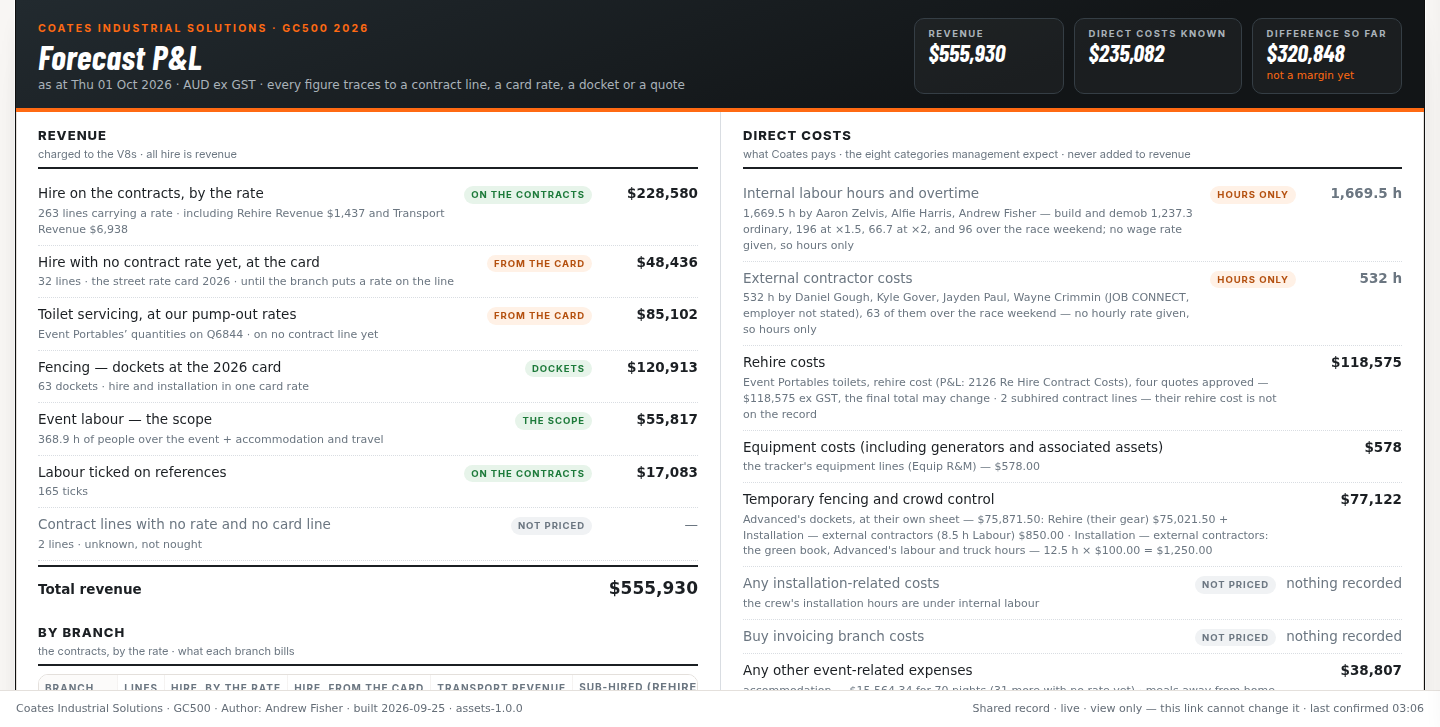
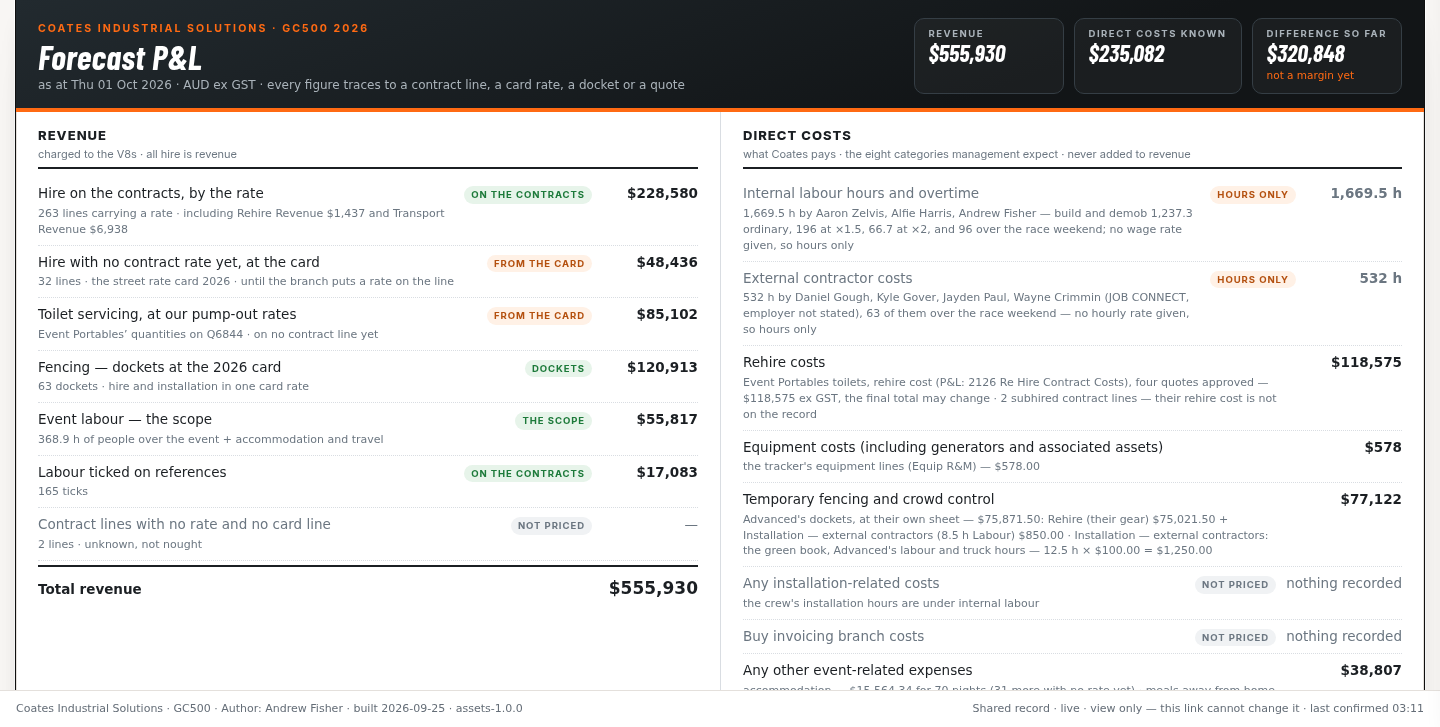
v7.52: every branch row shows its sub-hire (lines, Rehire Revenue, supplier, or NONE); branch table full width; sub-hired locations by supplier. Ready to upload
Claude-Session: https://claude.ai/code/session_01BQwk5iUoysfHRmoPUtnkBd

diff --git a/03_GC500_Delivery_Control/v7.52_the_pl_as_management_read_it_DRAFT/pl752_src.js b/03_GC500_Delivery_Control/v7.52_the_pl_as_management_read_it_DRAFT/pl752_src.js
@@ -63,13 +63,6 @@ function pl752Card(){
  ${c.other_lines ? line('Other charge lines', pl(c.other_lines, 'line'), m0(c.other), CONTRACT) : ''}
  ${noRate ? line('Contract lines with no rate and no card line', `${pl(noRate, 'line')} · unknown, not nought`, '<span class="pl-todo">—</span>', NONE, 'faint') : ''}
  ${line('Total revenue', '', m0(c.total), '', 'total')}
- <h4 class="pl-h4b">By branch <small>the contracts, by the rate · what each branch bills</small></h4>
- <div class="tblwrap"><table class="pl-tbl"><thead><tr><th>Branch</th><th class="num">Lines</th><th class="num">Hire, by the rate</th><th class="num">Hire, from the card</th><th class="num">Transport Revenue</th><th>Sub-hired <span class="w">(Rehire Revenue)</span></th><th class="num">No rate</th><th class="num">Total</th></tr></thead><tbody>
- ${B.map(b => `<tr><td><b>${esc(b.code)}</b>${b.decided ? `<br><span class="w">${pl(b.decided, 'line')} settled: no separate charge</span>` : ''}</td><td class="num">${esc(fmtNum(b.lines))}</td><td class="num">${b.contract ? esc(money0(b.contract)) : '—'}</td><td class="num">${b.card ? esc(money0(b.card)) : '—'}</td><td class="num">${b.transport ? esc(money0(b.transport)) : '—'}</td><td class="pl-sub">${b.subLines ? `<b>${esc(fmtNum(b.subLines))} line${b.subLines === 1 ? '' : 's'}</b> · ${esc(money0(b.rehire))}${b.suppliers.length ? `<br><span class="w">from ${esc(b.suppliers.join(', '))} · rehire cost not on the record</span>` : ''}` : '<span class="pl-none">none sub-hired</span>'}</td><td class="num">${b.none ? `<span class="pl-todo">${esc(fmtNum(b.none))}</span>` : '—'}</td><td class="num"><b>${esc(money0(b.total))}</b></td></tr>`).join('')}
- <tr class="tot"><td>The contracts</td><td class="num">${esc(fmtNum(B.reduce((s, b) => s + b.lines, 0)))}</td><td class="num">${esc(money0(B.reduce((s, b) => s + b.contract, 0)))}</td><td class="num">${esc(money0(cardTotal))}</td><td class="num">${esc(money0(B.reduce((s, b) => s + b.transport, 0)))}</td><td class="pl-sub"><b>${esc(fmtNum(B.reduce((s, b) => s + b.subLines, 0)))} lines</b> · ${esc(money0(B.reduce((s, b) => s + b.rehire, 0)))}</td><td class="num">${noRate ? esc(fmtNum(noRate)) : '—'}</td><td class="num"><b>${esc(money0(B.reduce((s, b) => s + b.total, 0)))}</b></td></tr>
- </tbody></table></div>
- ${(() => { const L = pl752SubLocations(); return `<div class="pl-subloc"><b>Sub-hired on the record, by supplier.</b> ${L.length ? L.map(x => `<span class="pl-subco"><b>${esc(x.co)}</b> — ${esc(x.keys.join(', '))} (${x.keys.length} location${x.keys.length === 1 ? '' : 's'})</span>`).join(' · ') : 'no sub-hired location recorded on the page'}. These are locations, not contract lines: their hire is charged to the V8s on the branch's contracts at our rates, and the supplier's rehire cost sits under Rehire costs on the right (Event Portables: ${esc(money0(k.rehire || 0))}, approved). A branch's SUB lines above are the items the rental system itself books as sub-hired.</div>`; })()}
- <p class="pl-note">The branch total is the contracts line above, to the dollar: hire by the rate, hire from the card, plus the Transport Revenue and Rehire Revenue charge lines on the same contracts. Fencing, toilet servicing and event labour are charged off dockets, a quote and the scope, not contract lines, so they sit outside the branch table.</p>
  </div>
  <div class="pl-col">
  <h4>Direct costs <small>what Coates pays · the eight categories management expect · never added to revenue</small></h4>
@@ -80,6 +73,15 @@ function pl752Card(){
  <ul class="pl-missing">${missing.map(x => `<li>${esc(x)}</li>`).join('')}${(M.caveats || []).map(x => `<li class="prov">Provisional: ${esc(x)}</li>`).join('')}</ul>
  <p class="pl-note">Charged windows: forklifts, VMS and water barriers from when they go in; everything else over the event (23–25 Oct). Labour is charged per piece of equipment; the only hourly labour charged is over the event. A rate typed on Costs → From the Street Rate Card 2026 replaces a card estimate and shows here at once.</p>
  </div>
+ </div>
+ <div class="pl-wide">
+ <h4>By branch <small>the contracts, by the rate · what each branch bills</small></h4>
+ <div class="tblwrap"><table class="pl-tbl"><thead><tr><th>Branch</th><th class="num">Lines</th><th class="num" title="hire lines carrying a rate the branch put on the contract">Hire · by the rate</th><th class="num" title="hire lines with no contract rate yet, at the street rate card 2026">Hire · from the card</th><th class="num" title="Transport Revenue: the delivery and pickup charge lines">Transport</th><th title="the SUB lines the rental system books as sub-hired, and their Rehire Revenue">Sub-hired</th><th class="num" title="lines with no rate and no card line: unknown, not nought">No rate</th><th class="num">Total</th></tr></thead><tbody>
+ ${B.map(b => `<tr><td class="pl-br"><b>${esc(b.code)}</b>${b.decided ? ` <span class="w" title="${esc(pl(b.decided, 'line') + ' settled by the project manager, 1 Oct 2026: no separate customer hire charge (waste tanks included in toilet-block hire; contract 9968929 for Coates\u2019 own use)')}">· ${esc(fmtNum(b.decided))} settled</span>` : ''}</td><td class="num">${esc(fmtNum(b.lines))}</td><td class="num">${b.contract ? esc(money0(b.contract)) : '—'}</td><td class="num">${b.card ? esc(money0(b.card)) : '—'}</td><td class="num">${b.transport ? esc(money0(b.transport)) : '—'}</td><td class="pl-sub" title="${b.subLines ? esc(pl(b.subLines, 'SUB line') + ' from ' + (b.suppliers.join(', ') || 'a supplier not named') + ' · Rehire Revenue ' + money0(b.rehire) + ' · the rehire cost is not on the record') : 'no line on this branch\u2019s contracts is booked as sub-hired'}">${b.subLines ? `<b>${esc(fmtNum(b.subLines))} line${b.subLines === 1 ? '' : 's'}</b> · ${esc(money0(b.rehire))}<br><span class="w">${esc(b.suppliers.join(', ') || 'supplier not named')} · cost not on record</span>` : '<span class="pl-none">none</span>'}</td><td class="num">${b.none ? `<span class="pl-todo">${esc(fmtNum(b.none))}</span>` : '—'}</td><td class="num"><b>${esc(money0(b.total))}</b></td></tr>`).join('')}
+ <tr class="tot"><td>The contracts</td><td class="num">${esc(fmtNum(B.reduce((s, b) => s + b.lines, 0)))}</td><td class="num">${esc(money0(B.reduce((s, b) => s + b.contract, 0)))}</td><td class="num">${esc(money0(cardTotal))}</td><td class="num">${esc(money0(B.reduce((s, b) => s + b.transport, 0)))}</td><td class="pl-sub"><b>${esc(fmtNum(B.reduce((s, b) => s + b.subLines, 0)))} lines</b> · ${esc(money0(B.reduce((s, b) => s + b.rehire, 0)))}</td><td class="num">${noRate ? esc(fmtNum(noRate)) : '—'}</td><td class="num"><b>${esc(money0(B.reduce((s, b) => s + b.total, 0)))}</b></td></tr>
+ </tbody></table></div>
+ ${(() => { const L = pl752SubLocations(); return `<div class="pl-subloc"><b>Sub-hired on the record, by supplier.</b> ${L.length ? L.map(x => `<span class="pl-subco"><b>${esc(x.co)}</b> — ${esc(x.keys.join(', '))} (${x.keys.length} location${x.keys.length === 1 ? '' : 's'})</span>`).join(' · ') : 'no sub-hired location recorded on the page'}. These are locations, not contract lines: their hire is charged to the V8s on the branch's contracts at our rates, and the supplier's rehire cost sits under Rehire costs in Direct costs above (Event Portables: ${esc(money0(k.rehire || 0))}, approved). A branch's SUB lines above are the items the rental system itself books as sub-hired.</div>`; })()}
+ <p class="pl-note">The branch total is the contracts line above, to the dollar: hire by the rate, hire from the card, plus the Transport Revenue and Rehire Revenue charge lines on the same contracts. Fencing, toilet servicing and event labour are charged off dockets, a quote and the scope, not contract lines, so they sit outside the branch table.</p>
  </div>
  <footer class="pl-foot"><span>Author: ${esc((DATA.brand || {}).author || 'Andrew Fisher')} · Events Project Manager</span><span>The working behind every figure is under <b>Are we making money?</b> below · Print and Email the summary are above</span></footer>
  </section>`;

diff --git a/03_GC500_Delivery_Control/v7.52_the_pl_as_management_read_it_DRAFT/pl752.css b/03_GC500_Delivery_Control/v7.52_the_pl_as_management_read_it_DRAFT/pl752.css
@@ -28,20 +28,24 @@
 .pl752 .pl-todo{color:var(--pl-mute);font-weight:500}
 .pl752 .pl-tag{display:inline-block;font:700 9.5px/1 'Inter',var(--sans,system-ui,sans-serif);letter-spacing:.1em;text-transform:uppercase;padding:4px 7px;border-radius:999px;white-space:nowrap;font-style:normal}
 .pl752 .pl-tag.ok{background:#e7f4ea;color:#1d7a3a}.pl752 .pl-tag.est{background:#fff1e6;color:#b4500f}.pl752 .pl-tag.none{background:#f0f2f4;color:#6b7681}
-.pl752 .pl-tbl{width:100%;min-width:0;border-collapse:collapse;font-size:12.5px}
-.pl752 .pl-tbl th{font:700 10px/1.2 'Inter',var(--sans,system-ui,sans-serif);letter-spacing:.1em;text-transform:uppercase;color:var(--pl-mute);text-align:left;padding:6px 6px;border-bottom:1px solid var(--pl-ink)}
-.pl752 .pl-tbl td{padding:7px 6px;border-bottom:1px dotted var(--pl-rule);vertical-align:top}
+.pl752 .pl-tbl{width:100%;min-width:0;border-collapse:collapse;font-size:11.5px}
+.pl752 .pl-tbl th{font:700 9px/1.25 'Inter',var(--sans,system-ui,sans-serif);letter-spacing:.06em;text-transform:uppercase;color:var(--pl-mute);text-align:left;padding:6px 4px;border-bottom:1px solid var(--pl-ink);vertical-align:bottom}
+.pl752 .pl-tbl td{padding:6px 4px;border-bottom:1px dotted var(--pl-rule);vertical-align:top}.pl752 .pl-tbl td.pl-br{white-space:nowrap}.pl752 .pl-tbl td.pl-br .w{font-size:10px}
 .pl752 .pl-tbl .num{text-align:right;white-space:nowrap}
 .pl752 .pl-tbl tr.tot td{border-top:2px solid var(--pl-ink);border-bottom:0;font-weight:700}
 .pl752 .pl-tbl .w{font-size:11px;color:var(--pl-mute)}
-.pl752 .pl-sub{white-space:normal;min-width:150px}.pl752 .pl-sub .w{font-size:10.5px}.pl752 .pl-none{display:inline-block;font:700 9.5px/1 'Inter',var(--sans,system-ui,sans-serif);letter-spacing:.1em;text-transform:uppercase;padding:4px 7px;border-radius:999px;background:#f0f2f4;color:#6b7681}
+.pl752 .pl-sub{white-space:nowrap;min-width:0}.pl752 .pl-sub .w{font-size:10px}.pl752 .pl-none{display:inline-block;font:700 9.5px/1 'Inter',var(--sans,system-ui,sans-serif);letter-spacing:.1em;text-transform:uppercase;padding:4px 7px;border-radius:999px;background:#f0f2f4;color:#6b7681}
 .pl752 .pl-subloc{margin:10px 0 0;padding:9px 12px;border-left:3px solid var(--pl-or);background:#fff7f2;font-size:12px;line-height:1.5;color:#3d4852}.pl752 .pl-subco{white-space:nowrap}
 .pl752 .pl-note{margin:10px 0 0;font-size:11.5px;line-height:1.45;color:var(--pl-mute)}
 .pl752 .pl-missing{margin:0;padding:0 0 0 18px;font-size:12.5px;line-height:1.5}
 .pl752 .pl-missing li.prov{color:#b4500f}
+.pl752 .pl-wide{padding:4px 22px 18px;border-top:1px solid var(--pl-rule)}.pl752 .pl-wide h4{margin-top:14px}
+.pl752 .pl-tbl{font-size:12.5px}.pl752 .pl-tbl th{font-size:9.5px;padding:6px 8px}.pl752 .pl-tbl td{padding:7px 8px}
 .pl752 .pl-foot{display:flex;justify-content:space-between;gap:12px;flex-wrap:wrap;padding:10px 22px;border-top:1px solid var(--pl-rule);background:#f7f8f9;font-size:11px;color:var(--pl-mute)}
 .plfold752{margin:0 0 12px}.plfold752 > summary{cursor:pointer;font-weight:700;padding:10px 14px;border:1px dashed var(--pl-rule,#d9dde2);border-radius:10px;color:#3d4852}
 .plfold752 > summary small{font-weight:500;color:#6b7681;margin-left:8px}
 @media (max-width:900px){.pl752 .pl-cols{grid-template-columns:1fr}.pl752 .pl-col + .pl-col{border-left:0;border-top:1px solid var(--pl-rule)}}
-@media (max-width:640px){.pl752 .pl-head,.pl752 .pl-col,.pl752 .pl-foot{padding-left:14px;padding-right:14px}.pl752 h3{font-size:28px}.pl752 .pl-kpi{min-width:0;flex:1 1 40%}.pl752 .pl-ln{grid-template-columns:minmax(0,1fr) minmax(84px,auto);grid-template-areas:"lb amt" "tg tg"}.pl752 .pl-lb{grid-area:lb}.pl752 .pl-amt{grid-area:amt}.pl752 .pl-tg{grid-area:tg}.pl752 .pl-tg:empty{display:none}}
+@media (max-width:640px){.pl752 .pl-head,.pl752 .pl-col,.pl752 .pl-wide{padding:4px 22px 18px;border-top:1px solid var(--pl-rule)}.pl752 .pl-wide h4{margin-top:14px}
+.pl752 .pl-tbl{font-size:12.5px}.pl752 .pl-tbl th{font-size:9.5px;padding:6px 8px}.pl752 .pl-tbl td{padding:7px 8px}
+.pl752 .pl-foot{padding-left:14px;padding-right:14px}.pl752 h3{font-size:28px}.pl752 .pl-kpi{min-width:0;flex:1 1 40%}.pl752 .pl-ln{grid-template-columns:minmax(0,1fr) minmax(84px,auto);grid-template-areas:"lb amt" "tg tg"}.pl752 .pl-lb{grid-area:lb}.pl752 .pl-amt{grid-area:amt}.pl752 .pl-tg{grid-area:tg}.pl752 .pl-tg:empty{display:none}}
 @media print{.pl752 .pl-head{-webkit-print-color-adjust:exact;print-color-adjust:exact}.plfold752{display:none}}

diff --git a/03_GC500_Delivery_Control/v7.52_the_pl_as_management_read_it_DRAFT/README.md b/03_GC500_Delivery_Control/v7.52_the_pl_as_management_read_it_DRAFT/README.md
@@ -17,7 +17,7 @@ words (AGENTS.md, "Andrew's business words"):
   the 2026 card; event labour (the scope); labour ticked on references; lines with no rate and no card line. Each
   line carries a tag saying where it stands: **ON THE CONTRACTS**, **FROM THE CARD** (an estimate until the branch puts
   a rate on the line), **DOCKETS**, **THE SCOPE**, or **NOT PRICED**. Then **Total revenue** — the forecast.
-- **By branch — KINP, STPS, NVAC, MEAD:** lines; hire by the rate; hire from the card; Transport Revenue;
+- **By branch — KINP, STPS, NVAC, MEAD** (full width, under both columns): lines; hire by the rate; hire from the card; Transport Revenue;
   **Sub-hired** (Andrew, 1 Oct: "make sure all branches show sub-hired") — every branch says it: the SUB lines the
   rental system books as sub-hired, their Rehire Revenue and supplier code (KINP: 1 line, $1,428, ROY002; MEAD: 1
   line, $9, QUE011), or **NONE SUB-HIRED** (STPS, NVAC), with "rehire cost not on the record" where it is not; lines
@@ -54,7 +54,7 @@ Costs → From the Street Rate Card 2026 changes the statement at once.
 
 Checks: statement header shows the working's revenue, costs and difference; branch table adds to the contracts line
 to the cent; the fold is closed and the old card still present; 0 page errors desktop (1440) and phone; no sideways
-scroll on the phone. Screenshots: `shot752_pl_desktop.png`, `shot752_pl_phone.png`. Sweeps: `sweep_desktop.txt`,
+scroll on the phone. Screenshots: `shot752_pl_desktop.png`, `shot752_by_branch.png`, `shot752_pl_phone.png`. Sweeps: `sweep_desktop.txt`,
 `sweep_phone.txt`.
 
 Build: `toolchain/build.sh v7.52 v7.52_the_pl_as_management_read_it_DRAFT/patch_v752.py` — v7.50 and v7.51 went live
